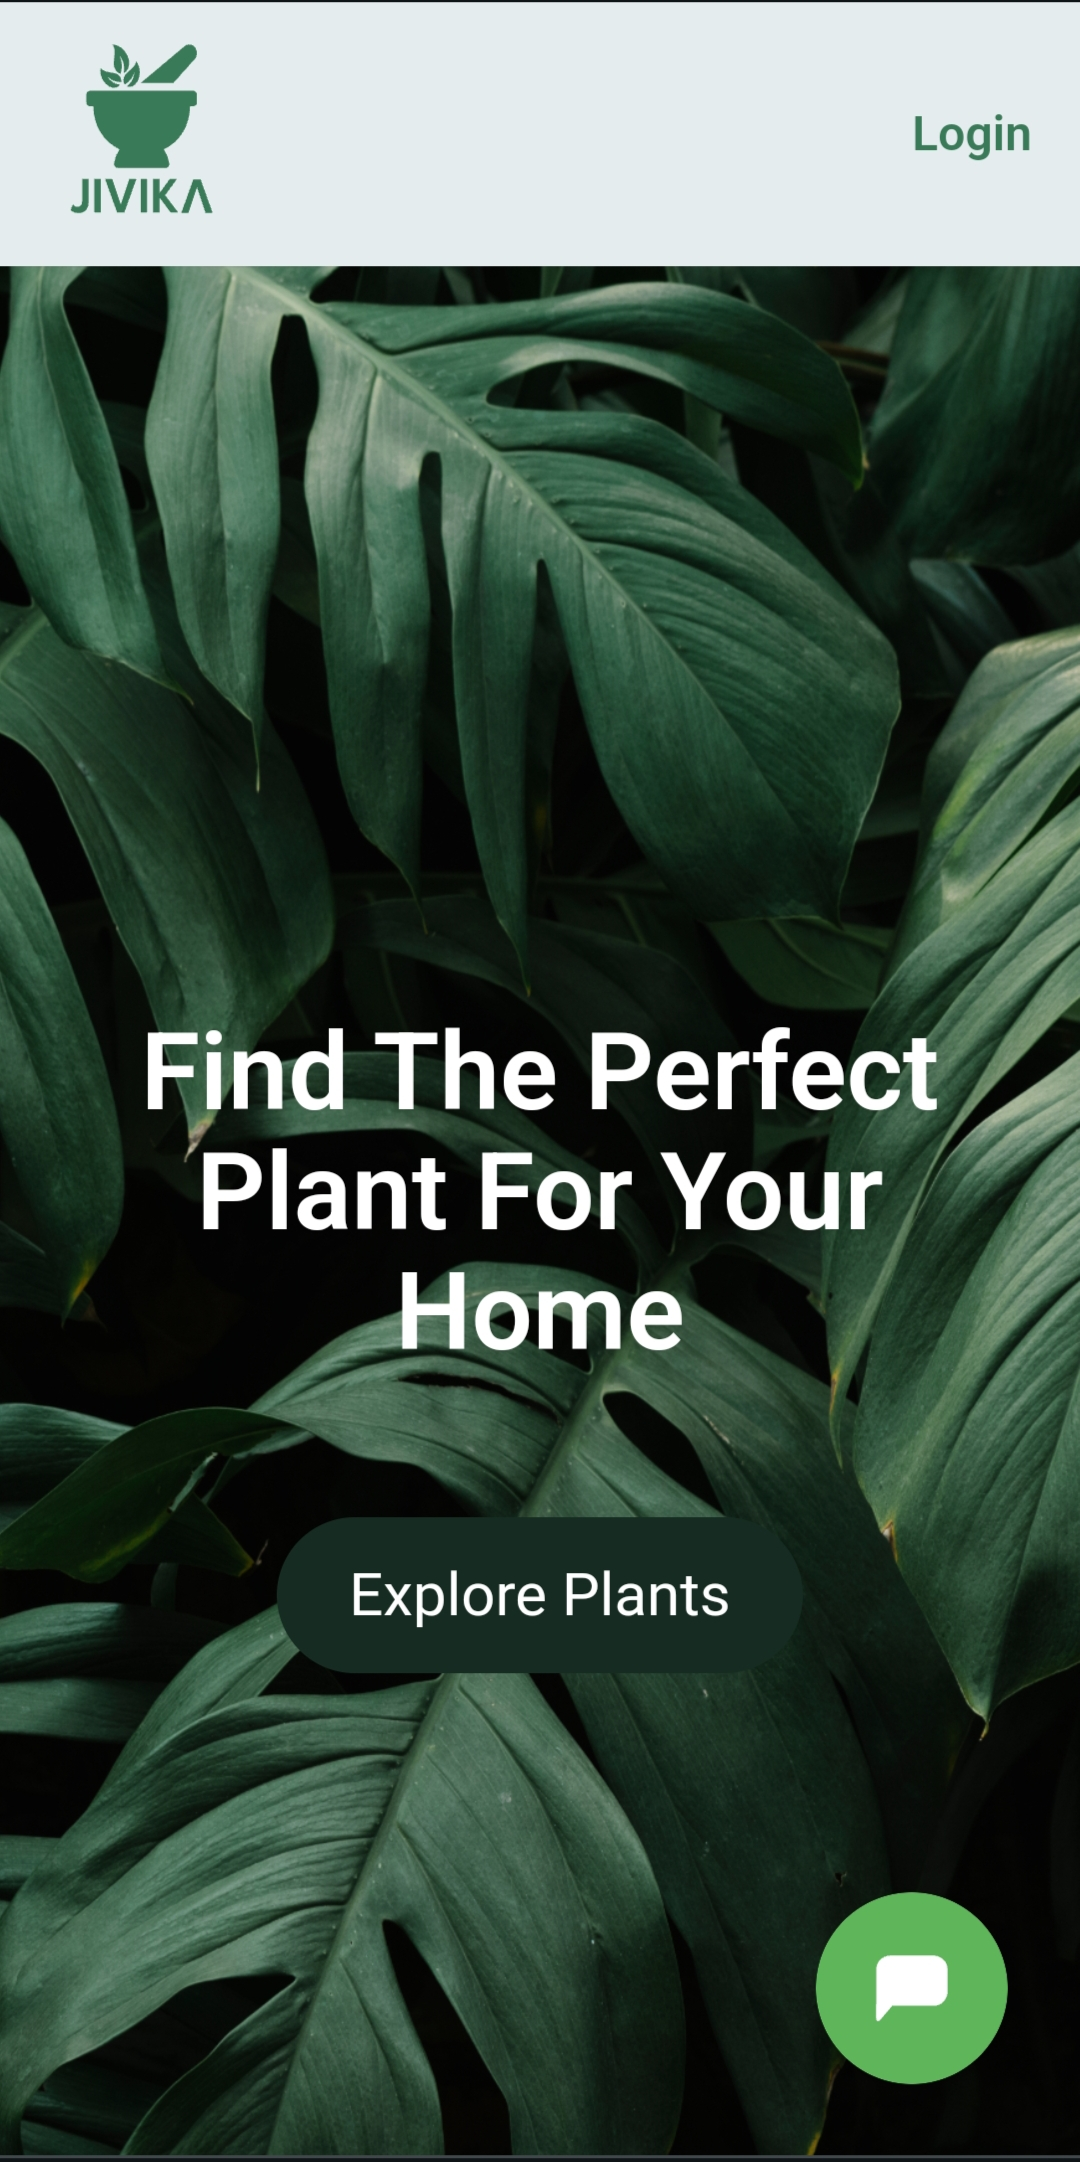
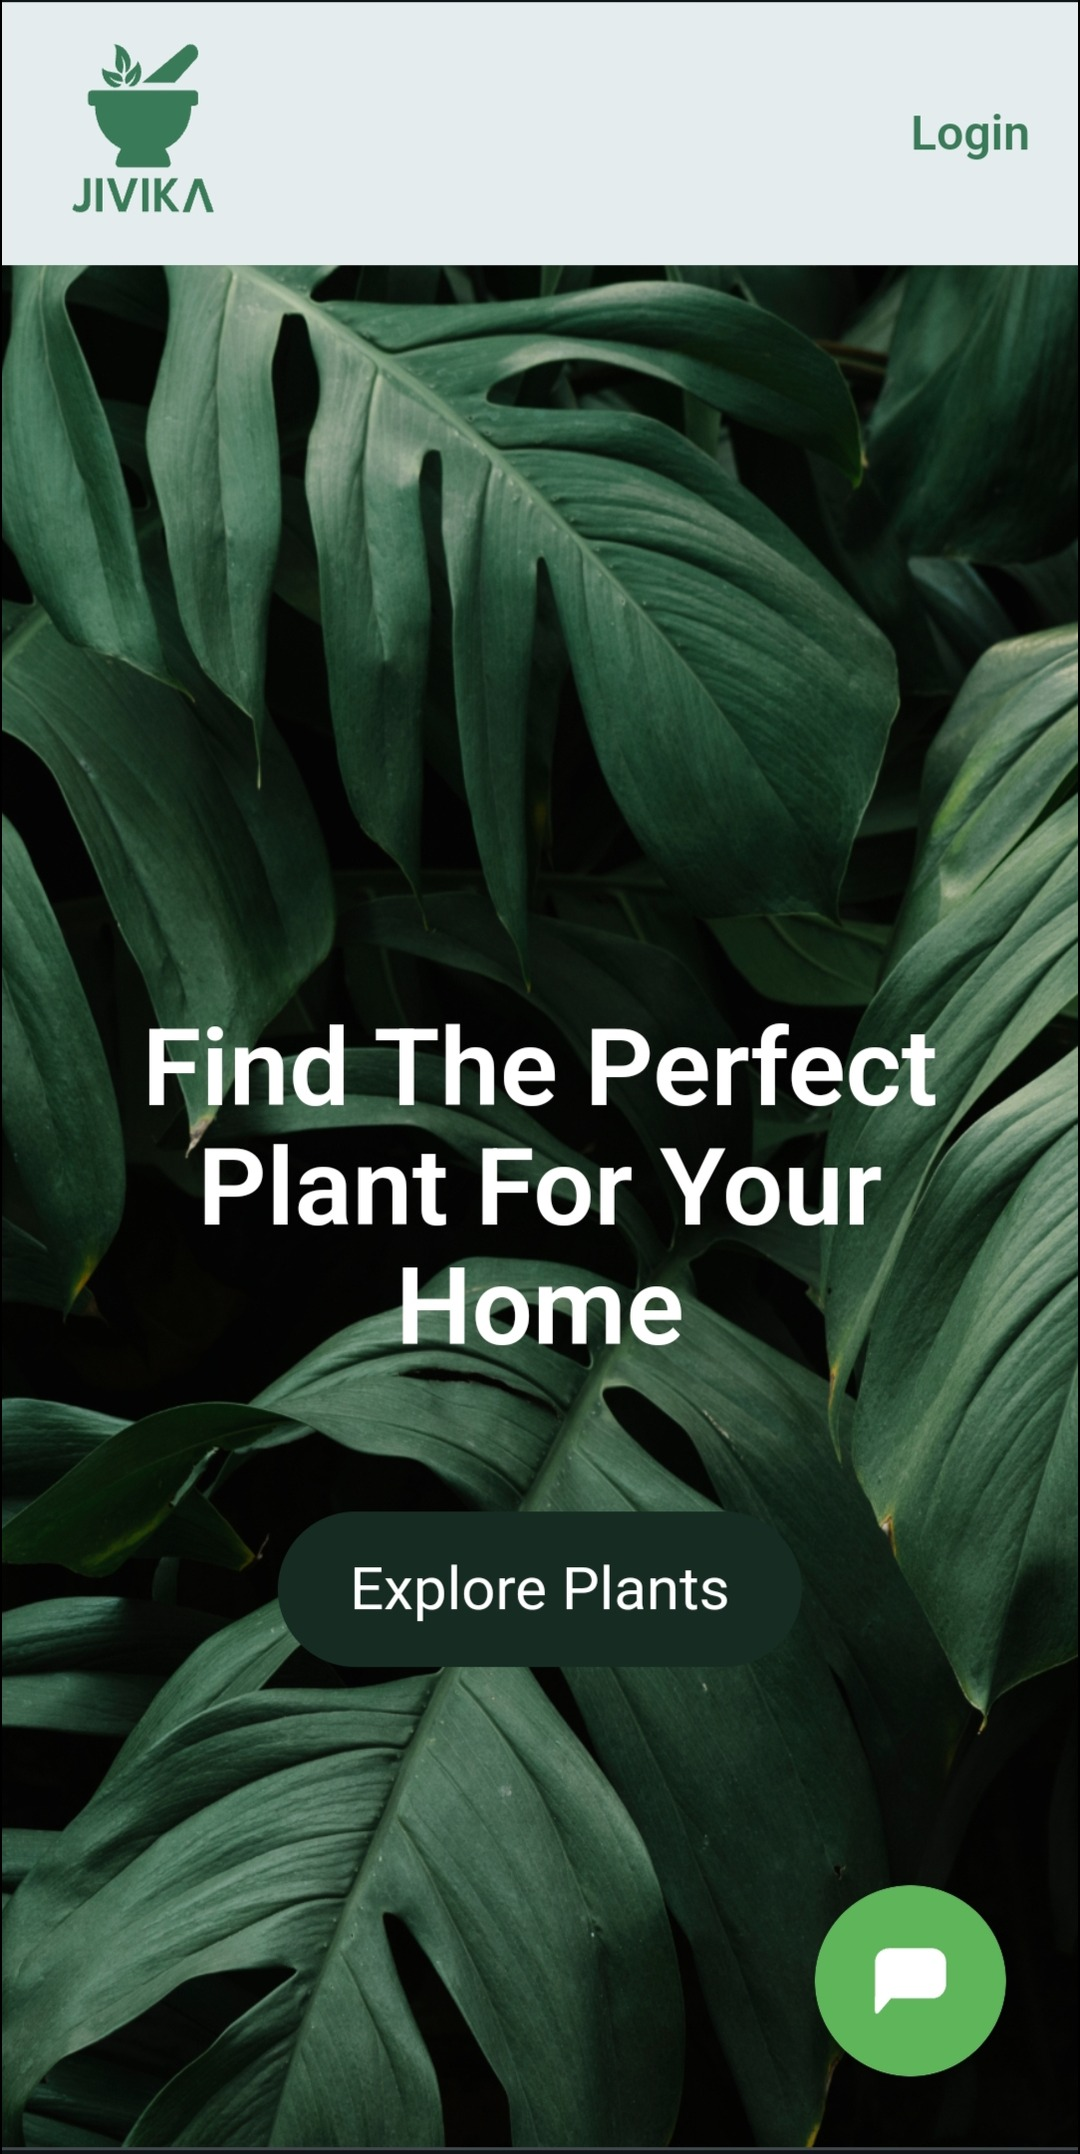
Manifest Updated

diff --git a/vite.config.js b/vite.config.js
@@ -50,16 +50,17 @@ const manifestForPlugin = {
         purpose: 'maskable',
       },
     ],
+
     screenshots: [
       {
         src: '/s1.jpg',
-        sizes: '1080x2162',
+        sizes: '1080x2154',
         type: 'image/jpg',
         form_factor: 'narrow' 
       },
       {
         src: '/s2.jpg',
-        sizes: '1080x2160',
+        sizes: '1080x2154',
         type: 'image/jpg',
         form_factor: 'narrow'
       },
